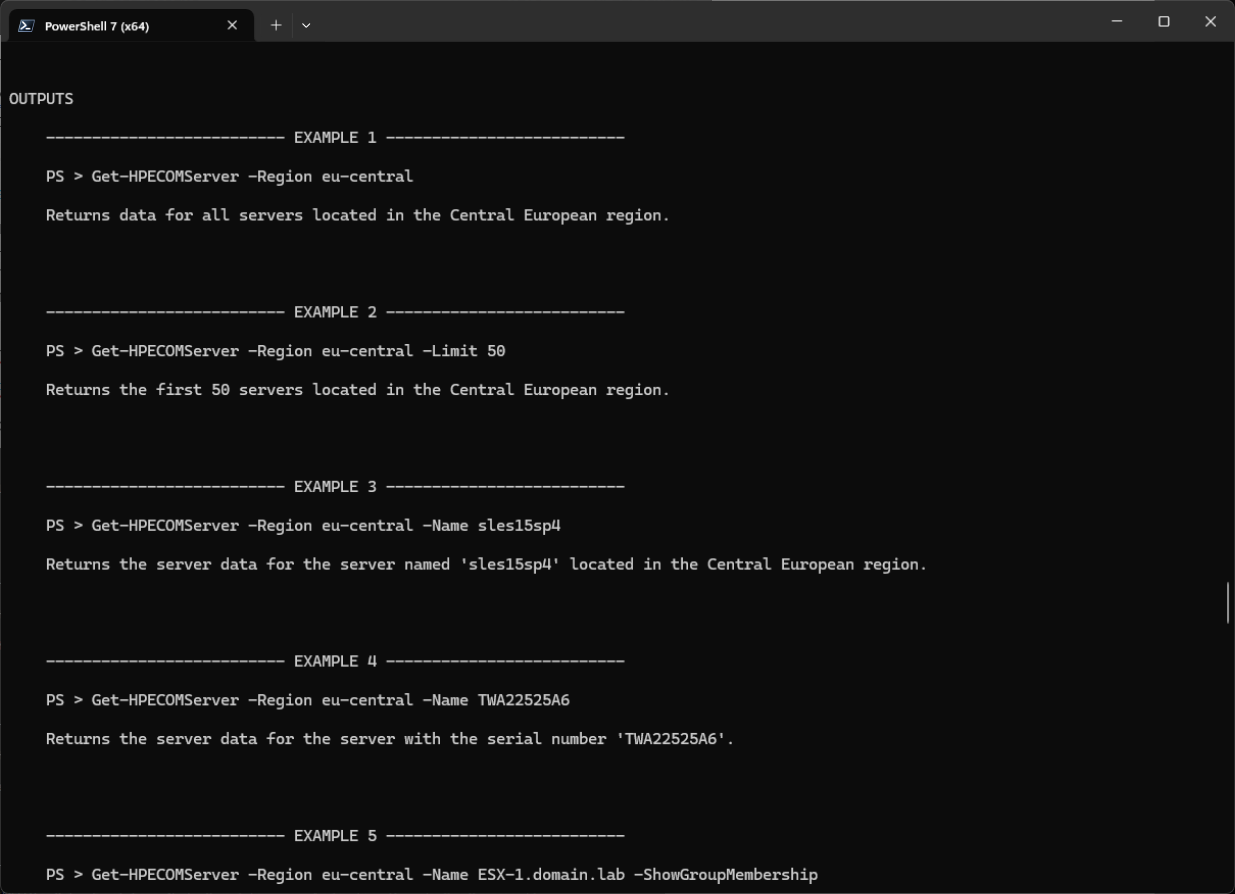
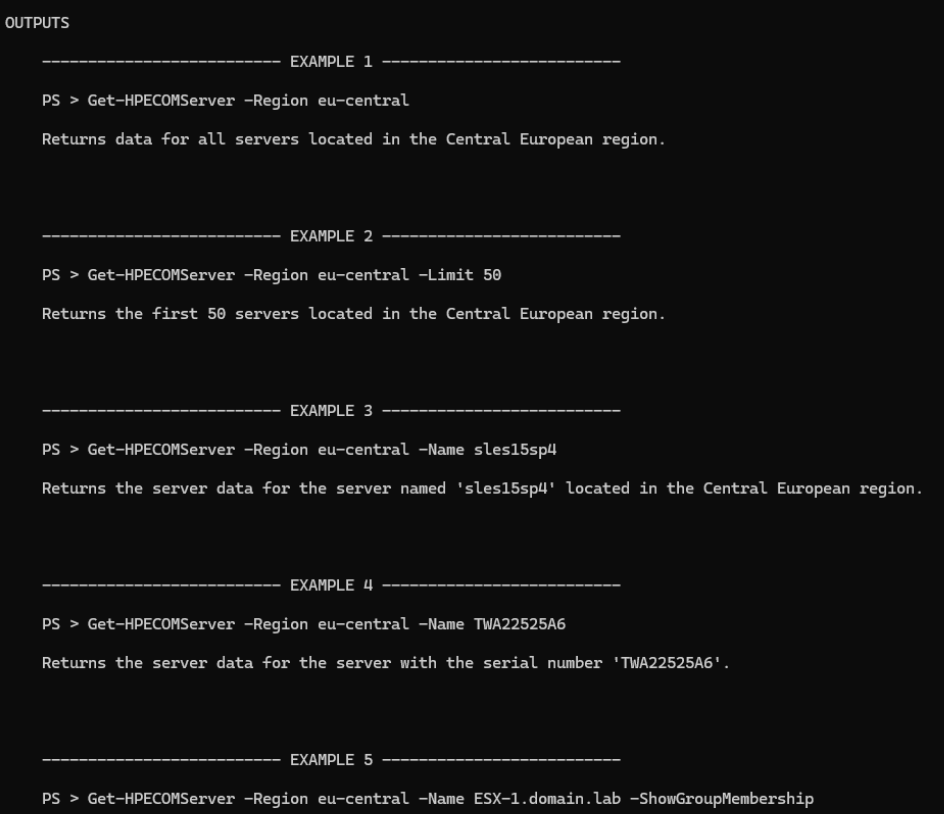
Update

diff --git a/_posts/2026-02-16-PowerShell-COM-Zero-Touch.md b/_posts/2026-02-16-PowerShell-COM-Zero-Touch.md
@@ -260,7 +260,7 @@ Management). Cmdlets start with **HPECOM** for Compute Ops Management or **HPEGL
     Get-Help Get-HPECOMserver -Full
     ```
 
-    ![A screenshot of a computer program Description automatically generated](/assets/images/HOLs/COM-ZeroTouch/image19.png){: .bordered-image-thin}
+    [![]( {{ site.baseurl }}/assets/images/HOLs/COM-ZeroTouch/image19.png){: .bordered-image-thin}]( {{ site.baseurl }}/assets/images/HOLs/COM-ZeroTouch/image19.png){:class="img-800"}{: data-lightbox="gallery"}
 
     `Get-Help` (or the alias `Help`) is a PowerShell cmdlet that allows you to retrieve information on other PowerShell cmdlets and functions. 
     
@@ -275,7 +275,7 @@ Management). Cmdlets start with **HPECOM** for Compute Ops Management or **HPEGL
     This will display a list of examples demonstrating how to use `Get-HPECOMServer` along with detailed explanations of what each
 example does.
 
-    ![A screenshot of a computer Description automatically generated](/assets/images/HOLs/COM-ZeroTouch/image20.png){: .bordered-image-thin}
+    [![]( {{ site.baseurl }}/assets/images/HOLs/COM-ZeroTouch/image20.png){: .bordered-image-thin}]( {{ site.baseurl }}/assets/images/HOLs/COM-ZeroTouch/image20.png){:class="img-700"}{: data-lightbox="gallery"}
 
 
 [⬆ Back to Top](#)
